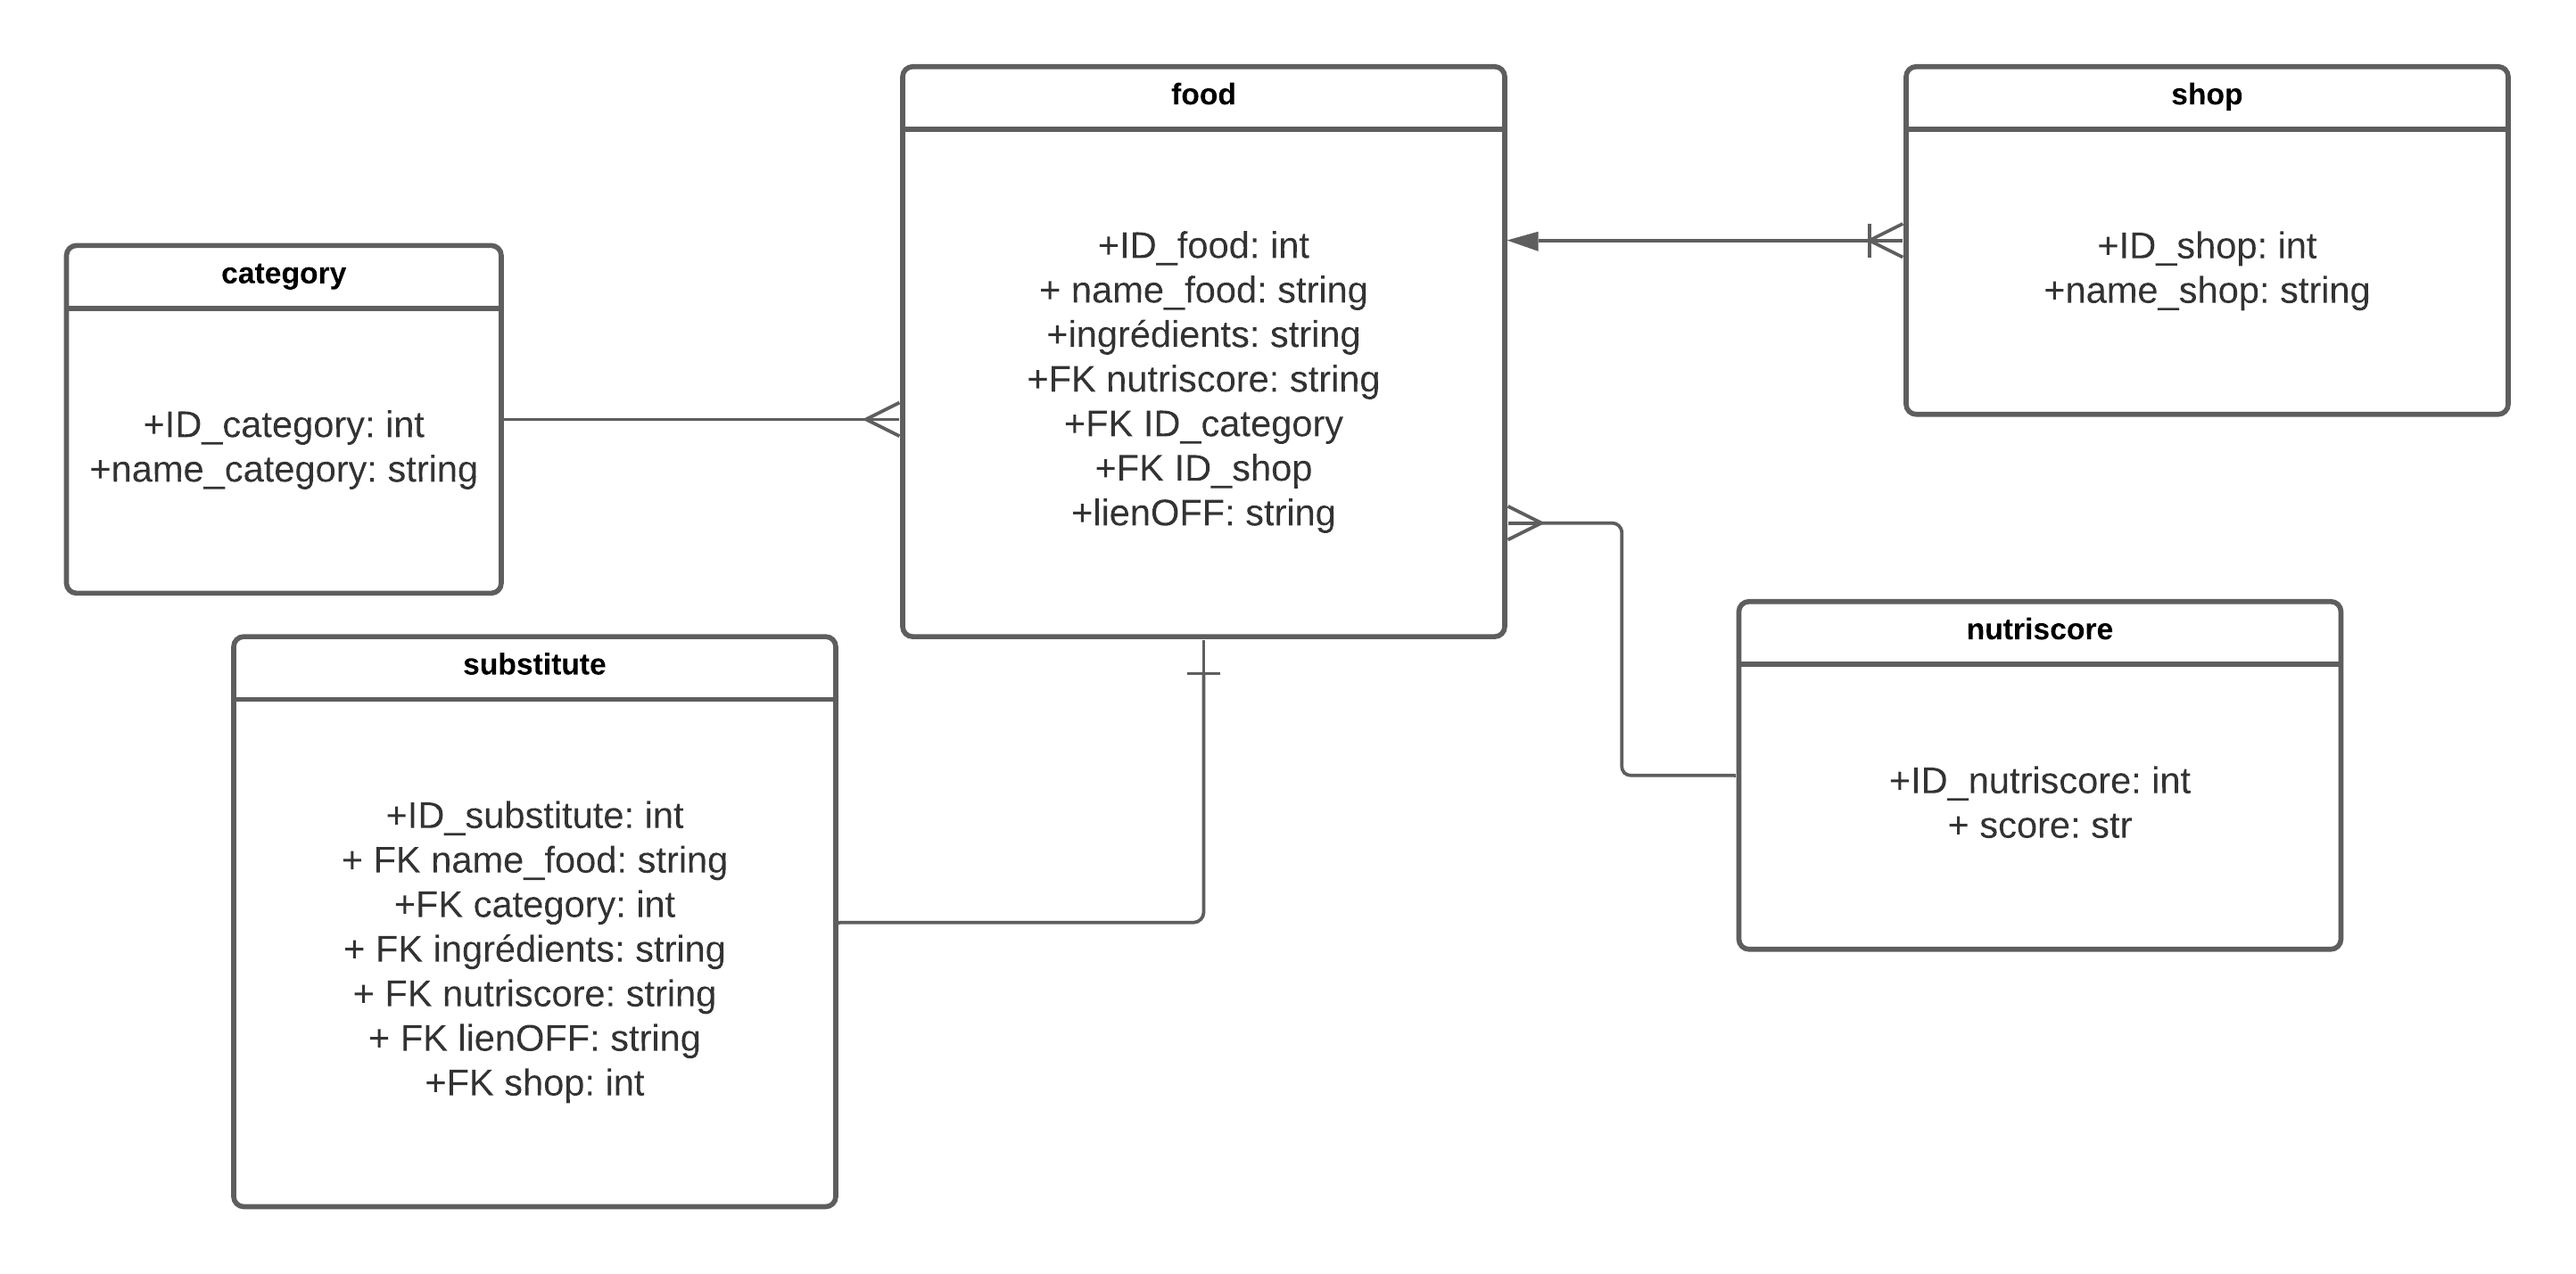
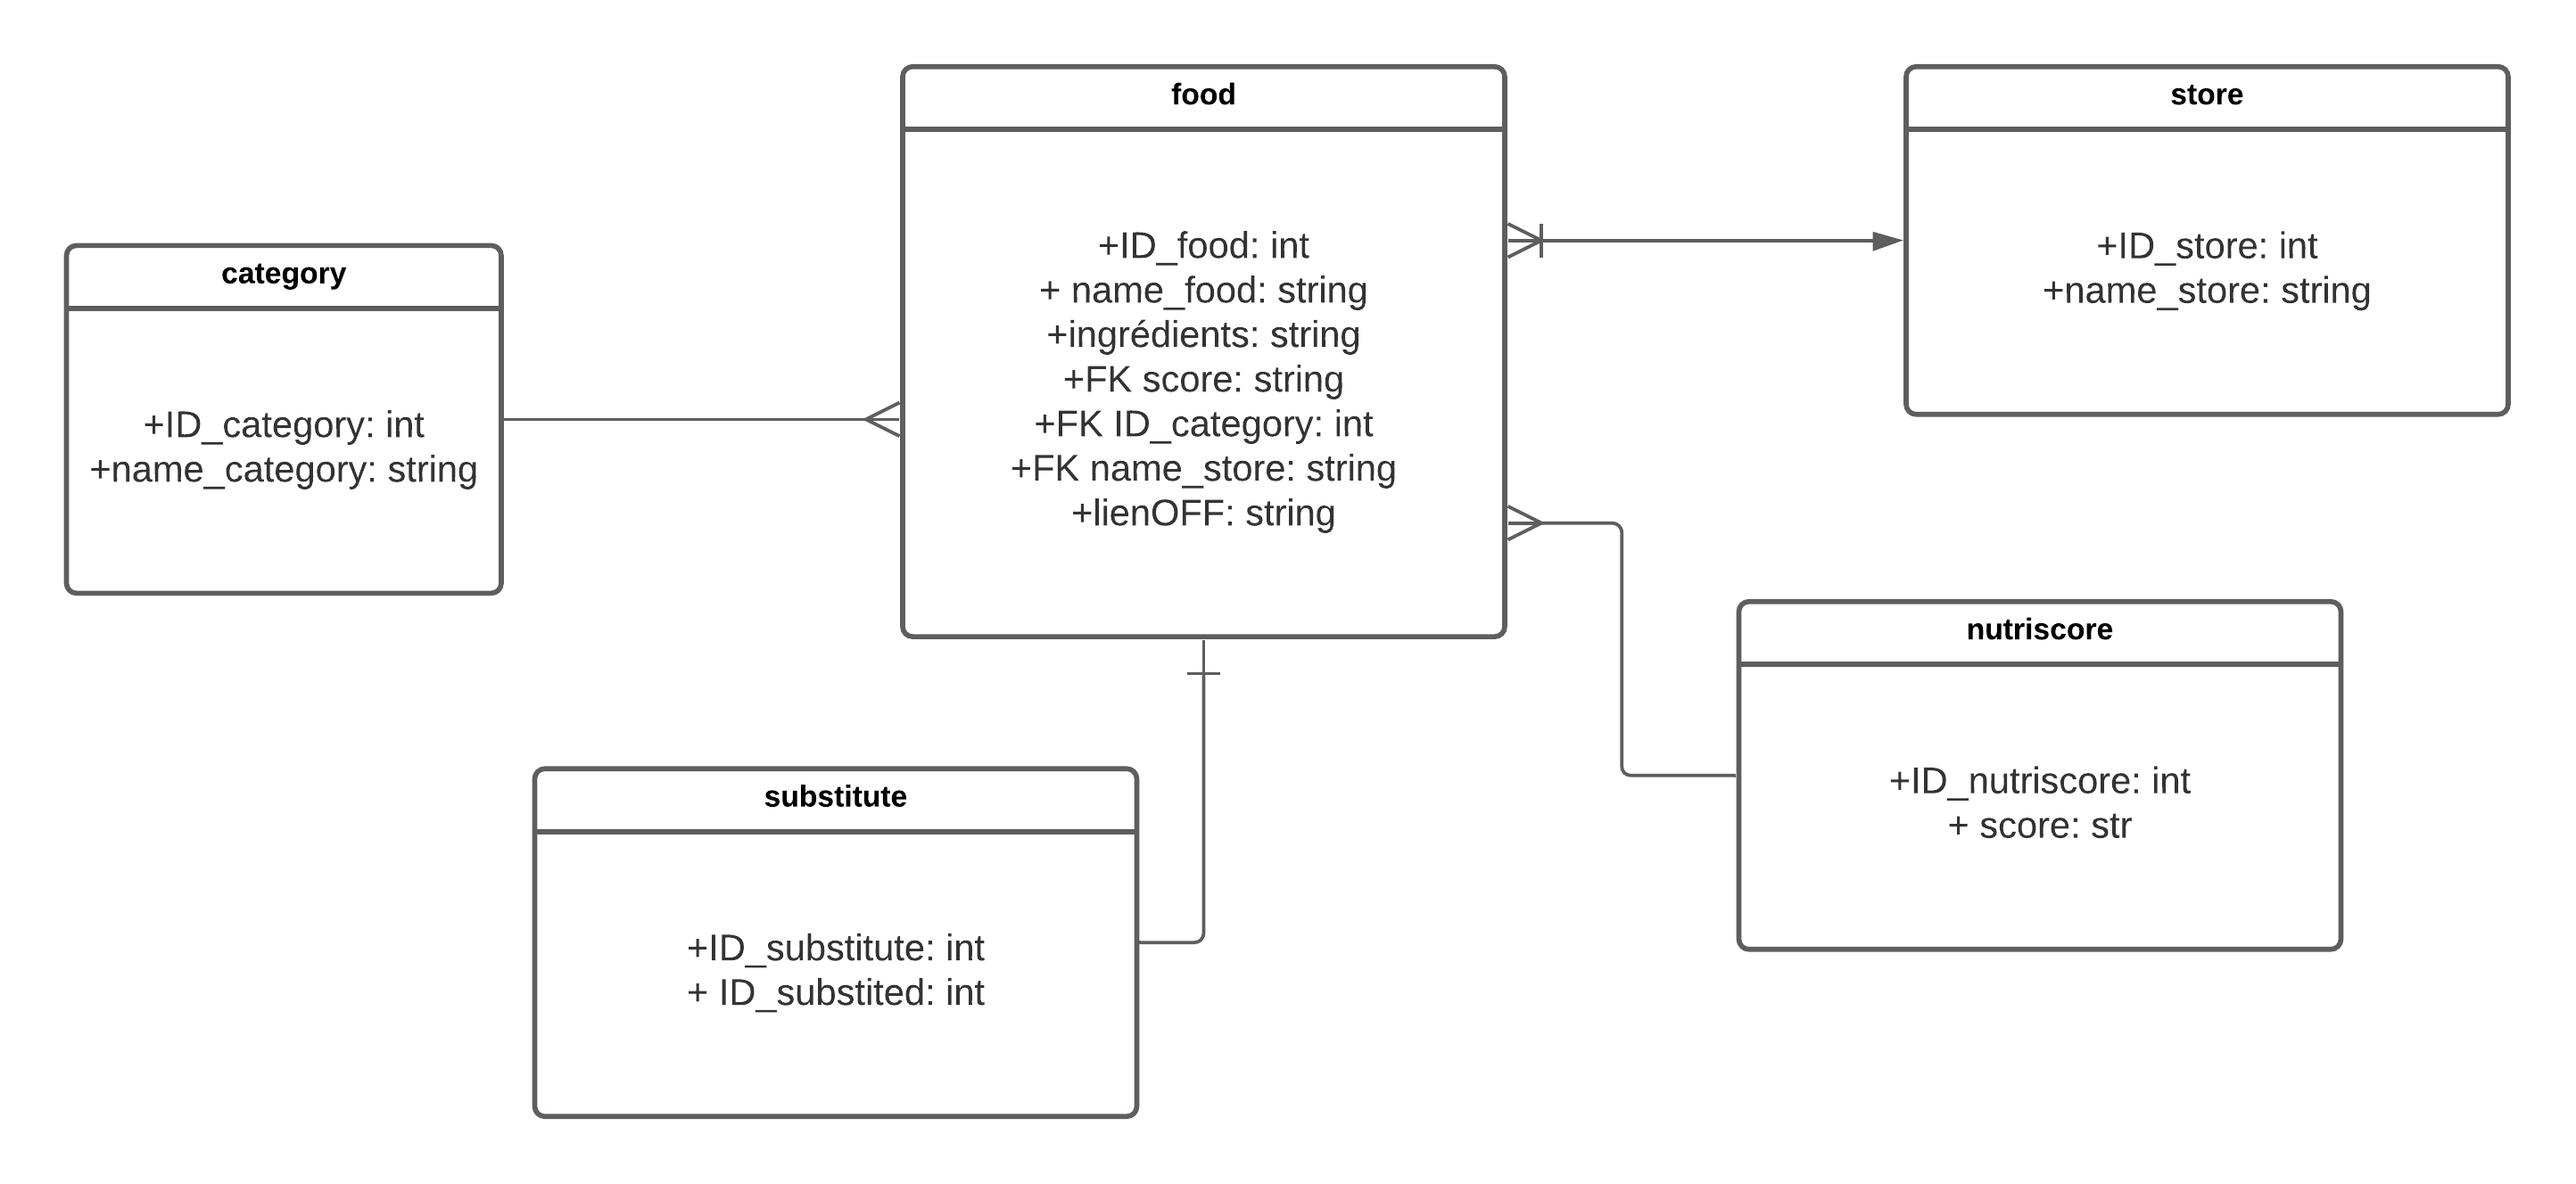
classe dataOFF refactorie

diff --git a/package/installBDD.py b/package/installBDD.py
@@ -1,0 +1,110 @@
+# !/usr/bin/env python
+# -*- coding: utf-8 -*-
+
+import mysql.connector
+
+mydb = mysql.connector.connect(
+  host="localhost",
+  user="jbbaillet",
+  password="iotabeta85",
+  auth_plugin='mysql_native_password'
+)
+
+mydb.close()
+
+print(mydb)
+
+TABLES = {}
+
+NAME_DATABASE = "eat_well"
+
+TABLES['Category'] = (
+    "CREATE TABLE `Category` ("
+    "  `id_category` int(2) NOT NULL AUTO_INCREMENT,"
+    "  `name` varchar(14) NOT NULL,"
+    "  PRIMARY KEY (`id_category`)"
+    ") ENGINE=InnoDB")
+
+TABLES['Store'] = (
+    "CREATE TABLE `Store` ("
+    "  `id_stores` int(2) NOT NULL AUTO_INCREMENT,"
+    "  `name` varchar(40) NOT NULL,"
+    "  PRIMARY KEY (`id_store`),"
+    ") ENGINE=InnoDB")
+
+TABLES['Nutriscore'] = (
+    "CREATE TABLE `Nutriscore` ("
+    "  `id_nutriscore` int(2) NOT NULL AUTO_INCREMENT,"
+    "  `score` varchar(1) NOT NULL,"
+    "  PRIMARY KEY (`id_nutriscore`),"
+    ") ENGINE=InnoDB")
+
+TABLES['Food'] = (
+    "CREATE TABLE `Food` ("
+    " 'id_food' SMALLINT NOT NULL AUTO_INCREMENT PRIMARY KEY, "
+    " 'name_food' VARCHAR(20),"
+    " 'category' SMALLINT NOT NULL, "
+    " 'ingredients' TEXT, "
+    " 'nutriscore' SMALLINT, "
+    " 'store' SMALLINT, "
+    " 'urlOFF' URL, "
+    " CONSTRAINT 'fk_nutriscore_id' FOREIGN KEY ('nutriscore') REFERENCES Nutriscore('id_nutriscore')"
+    " CONSTRAINT 'fk_category_id' FOREIGN KEY ('category') REFERENCES Category('id_category'),"
+    " CONSTRAINT 'fk_store' FOREIGN KEY('store') REFERENCES Shop('id_store')"
+") ENGINE=InnoDB;")
+
+TABLES['Sustitute'] = (
+    "CREATE TABLE `Substitute` ("
+    " 'id_substitute' SMALLINT NOT NULL AUTO_INCREMENT PRIMARY KEY, "
+    " 'name_food' VARCHAR(20),"
+    " 'category' SMALLINT NOT NULL, "
+    " 'ingredients' TEXT, "
+    " 'nutriscore' SMALLINT, "
+    " 'store' SMALLINT, "
+    " 'urlOFF' URL, "
+    " CONSTRAINT 'fk_name_food' FOREIGN KEY ('food') REFERENCES Food('id_name_food')"
+    " CONSTRAINT 'fk_category' FOREIGN KEY ('category') REFERENCES Category('name_category')"
+    " CONSTRAINT 'fk_ingredients' FOREIGN KEY ('ingredients') REFERENCES Food('ingredients')"
+    " CONSTRAINT 'fk_nutriscore_id' FOREIGN KEY ('nutriscore') REFERENCES Nutriscore('id_nutriscore')"
+    " CONSTRAINT 'fk_lienOFF' FOREIGN KEY ('urlOFF') REFERENCES Food('lienOFF'),"
+    " CONSTRAINT 'fk_store' FOREIGN KEY('store') REFERENCES Shop('id_store')"
+") ENGINE=InnoDB;")
+
+connection = mysql.connector.connect(user='jbbaillet')
+cursor = connection.cursor()
+
+def create_database(cursor):
+    try:
+        cursor.execute(
+            "CREATE DATABASE {} DEFAULT CHARACTER SET 'utf8'".format(NAME_DATABASE))
+    except mysql.connector.Error as err:
+        print("Failed creating database: {}".format(err))
+        exit(1)
+
+try:
+    cursor.execute("USE {}".format(NAME_DATABASE))
+except mysql.connector.Error as err:
+    print("Database {} does not exists.".format(NAME_DATABASE))
+    if err.errno == errorcode.ER_BAD_DB_ERROR:
+        create_database(cursor)
+        print("Database {} created successfully.".format(NAME_DATABASE))
+        connection.database = NAME_DATABASE
+    else:
+        print(err)
+        exit(1)
+
+for table_name in TABLES:
+    table_description = TABLES[table_name]
+    try:
+        print("Creating table {}: ".format(table_name), end='')
+        cursor.execute(table_description)
+    except mysql.connector.Error as err:
+        if err.errno == errorcode.ER_TABLE_EXISTS_ERROR:
+            print("already exists.")
+        else:
+            print(err.msg)
+    else:
+        print("OK")
+
+cursor.close()
+connection.close()

diff --git a/package/food.py b/package/food.py
@@ -2,44 +2,27 @@
 # -*- coding: utf-8 -*-
 
 import category
-import shop
+import store
 import nutriscore
-import json
-import urllib.request
+import dataOFF
 
 
-class food:
+class Food:
     def __init__(self):
         self.id = int
-        self.name = "product_name_fr"
+        self.name = {}
         self.category = category
-        self.ingredients = "ingredients"
+        self.code_barre = code_barre
+        self.ingredients = self.get_ingredients()
         self.nutriscore = nutriscore
-        self.shop = shop
-        self.url = "url"
+        self.store = store
+        self.url = f"https://fr.openfoodfacts.org/api/v0/product/{self.code_barre}.json"
+        self.file_json = dataOFF
 
-    def get_food(self, url):
-        self.url = urllib.request.urlopen(url).read()
-        return str(self.url.decode('utf-8', 'replace'))
-        dict_food = {}
-        with open (self.url) as json_data:
-            for key, value in json_data.items():
-                if key == "product_name_fr":
-                    self.name = value
-                if key == "ingredients":
-                    self.ingredients = value
-                if key == "nutriscore_grade":
-                    self.nutriscore = value
-                if key =="stores":
-                    self.shop = value
-                if key == "url":
-                    self.url = value
-                dict_food[key]=value
-                json_data.write(dict_food)
-            return dict_food
 
-pizzaRoyale = food()
-pizzaRoyale.get_food("https://fr.openfoodfacts.org/produit/3270190202974/pizza-cuite-sur-pierre-royale-carrefour.json")
-print(pizzaRoyale)
-print(pizzaRoyale.name)
-print(pizzaRoyale.shop)
+pizzaRoyale = food("3270190202974")
+# pizzaRoyale.get_food()
+# print(pizzaRoyale)
+# print(pizzaRoyale.name)
+# print(pizzaRoyale.shop)
+print(pizzaRoyale.ingredients)

diff --git a/package/dataOFF.py b/package/dataOFF.py
@@ -4,17 +4,37 @@
 import requests
 import json
 
-class dataOFF:
-    def __init__(self, url):
-        self.name = "name"
-        self.data = requests.get(url)
+
+class DataOFF:
+    def __init__(self, url, key):
+        self.url = url
+        self.file_json = self.creat_json()
+        self.key = key
+        self.value = self.get_value_of_key()
+        self.value1 = self.get_value()
+
+    def creat_json(self):
+        self.file_json = requests.get(self.url).json()
+        return self.file_json
+
+    def get_value_of_key(self):
+        for meta_data in self.file_json:
+            print(meta_data)
+            if meta_data == "products":
+                products = []
+                for elements in meta_data:
+                    if elements == self.key:
+                        pass
+    
+    def get_value(self):
+        with open(self.file_json, "r") as file: 
+            data = json.load(file) 
+            key = data['nutriscore_grade']['categories']['stores']['ingredients_text_fr']['product_name-fr']['url']
+            for key, val in data.items():
+                print(val)
+                data[key][""] = val[""] 
 
 
-    def encoding(self):
-        self.encoding = 'utf-8'
-        self.j
 
-
-dataoff = dataOFF('https://fr.openfoodfacts.org/categorie/popcorn/1.json')
-dataoff.json
-print(dataoff)
+dataoff = DataOFF("https://fr.openfoodfacts.org/categorie/pizzas-royales/1.json", "nutriscore_grade:")
+print(dataoff.value1)

diff --git a/package/category.py b/package/category.py
@@ -1,36 +1,14 @@
 # !/usr/bin/env python
 # -*- coding: utf-8 -*-
 
-import food
 
-class category:
-    def __init__(self, name):
+import dataOFF
+
+
+class category():
+    def __init__(self):
         self.id = int
         self.name = name
-        self.page_url = int
-        self.url = f"https://fr.openfoodfacts.org/categorie/{self.name}/{self.page_url}.json"
-        self.set_food = set()
 
-    def get_category(self, name, page_url):
-        self.name = name
-        self.page_url = page_url
-        self.url = f"https://fr.openfoodfacts.org/categorie/{self.name}/{self.page_url}.json"
-        return self.url
-
-    def set_category(self):
-        pass
-
-    def get_set_food(self):
-        with "self.url" as category:
-            numberFood = 0
-            for food in category:
-                if food == "products:":
-                    food()
-                    self.set_food.add(food)
-                numberFood +=1
-            return self.set_food
-
-
-pizzas_royales1 = category("pizzas-royales")
-pizzas_royales1.get_category("pizzas-royales","1")
-pizzas_royales1.get_set_food()
+pizzas_royales1 = category("pizzas-royales", "1")
+print(pizzas_royales1.file_json)

diff --git a/package/substitute.py b/package/substitute.py
@@ -5,8 +5,5 @@ import food
 
 class substitute:
     def __init__(self):
-        self.id = int
-        self.name_food = food
-        self.ingredients = food
-        self.nutriscore = food
-        self.lienOFF = food
+        self.food_subtitute = food
+        self.food_subtited = food

diff --git a/package/nutriscore.py b/package/nutriscore.py
@@ -1,8 +1,7 @@
 # !/usr/bin/env python
 # -*- coding: utf-8 -*-
 
-class nutriscore:
+class Nutriscore:
     def __init__(self):
         self.id = int
         self.score = str
-

diff --git a/package/store.py b/package/store.py
@@ -1,8 +1,7 @@
 # !/usr/bin/env python
 # -*- coding: utf-8 -*-
 
-class shop:
+class Store:
     def __init__(self, name):
         self.id = int
         self.name = name
-
